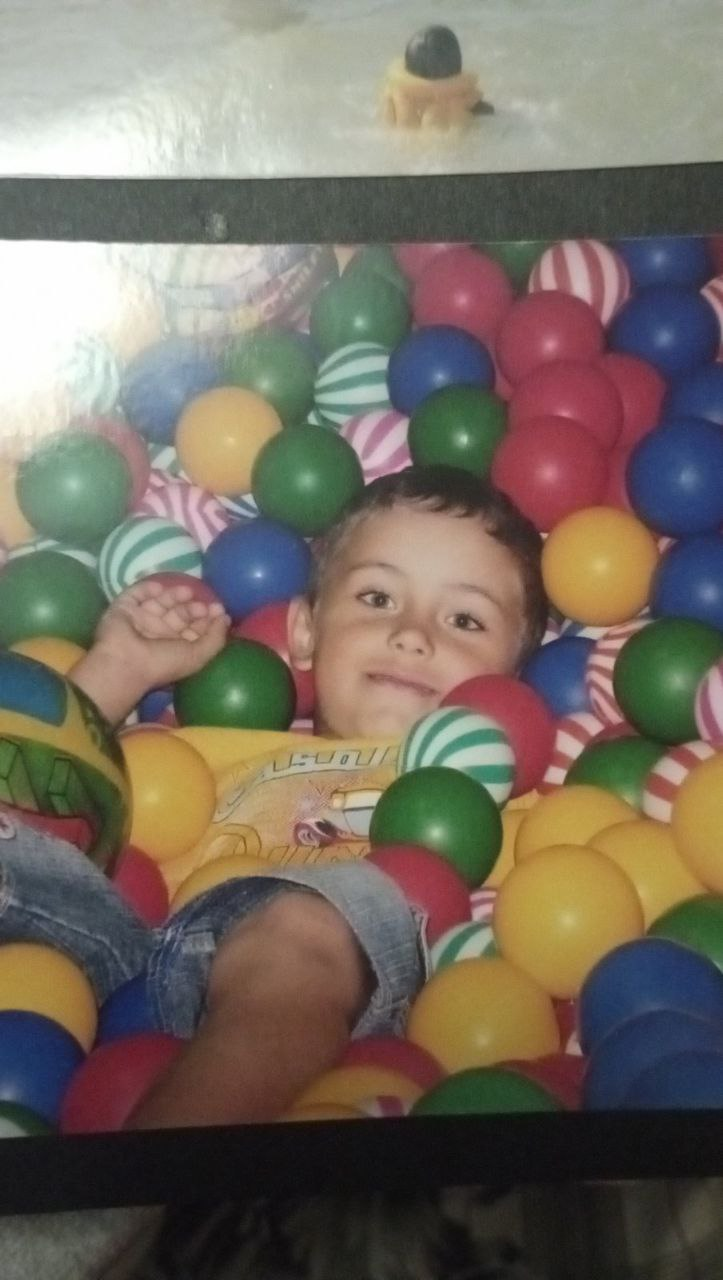
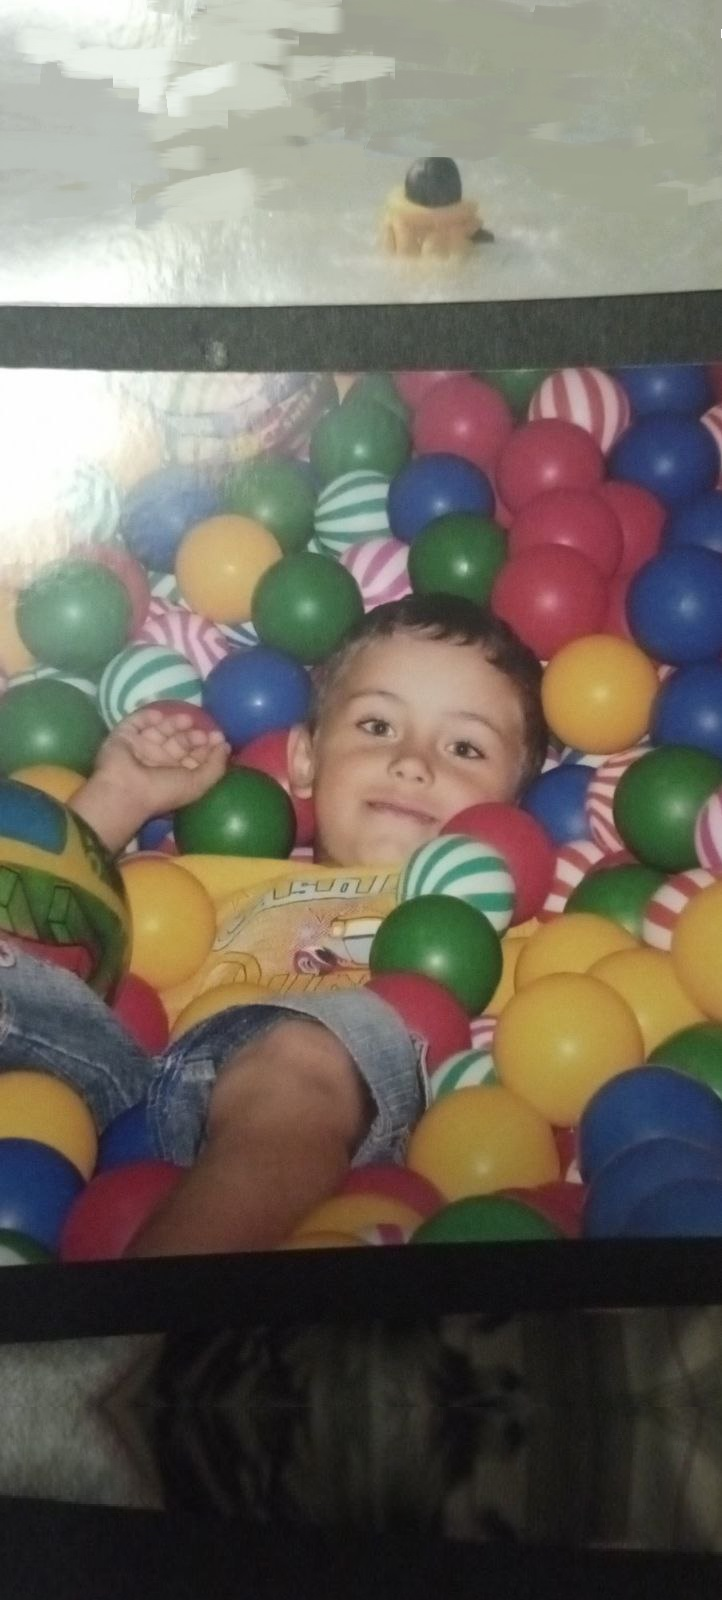
last fix

diff --git a/index.html b/index.html
@@ -77,12 +77,34 @@
         </div>
         <div class="item left">
           <div class="text">
+            <h2>ТВОРЧЕСТВО</h2>
+            <div></div>
+            <p>
+              Ты всегда удивлял нас тем, как много мог и можешь в себе сочетать. Рисование, фотография, гитара. И ты
+              действительно этим живёшь, а эти вещи медленно, но верно, начинают ассоциироваться у нас с тобой.
+            </p>
+          </div>
+        </div>
+        <div class="item">
+          <div class="text">
             <h2>ШКОЛЬНЫЕ ГОДЫ</h2>
             <div></div>
             <p>
               Место где-то ты рос, делал ошибки, узнавал свои интересы, встречал судьбаносных людей.
               Место где можно было быть сорванцом, место где главной заботой была несделанная домашняя работа.
               Были свои счастливые и грустные моменты, которые сделали тебя тем, кто ты есть сейчас.
+            </p>
+          </div>
+        </div>
+        <div class="item left">
+          <div class="text">
+            <h2>ДРУЖБА</h2>
+            <div></div>
+            <p>
+              Твою дорогу в дружбе полностью знаешь лишь ты. Но как же счастливы окружающие люди, что ты появился в их
+              жизни. Это скажет, наверное, каждый, возможно за малым исключением, что есть везде. Ты чудесный друг,
+              который восхищает и мотивирует своими качествами, с которым легко и безумно весело, друг, который всегда
+              поможет и придёт, если это будет необходимо.
             </p>
           </div>
         </div>
@@ -127,14 +149,14 @@
   <script>
     const emoticons = ["🐶", "🐱", "🤣", "🤓", "🥳", "🤑", "👶", "🐧", "🦝", "🙉", "😊", "👽", "👨🎨", "🧸", "💻", "📚", "🤼♂", "⚽", "🍺", "🍳", "🌺", "🔥", "🌊", "🦀", "🐥", "💃", "🤪", "😇", "😂", "😜", "😎", "🐥", "🦖", "🐮", "💫", "🦚", "🐼"];
 
-    function createMessageHTML(message) {
+    function createMessageHTML(message, index) {
       const container = document.createElement('div');
       container.className = 'message';
       const iconContainer = document.createElement('div');
       iconContainer.className = 'icon_part';
       const icon = document.createElement('div');
       icon.className = 'icon';
-      icon.innerHTML = emoticons[Math.round(Math.random() * (emoticons.length - 1))]
+      icon.innerHTML = emoticons[index % emoticons.length]
       console.log(icon.innerHTML)
       iconContainer.appendChild(icon);
       const textContainer = document.createElement('div');
@@ -155,8 +177,8 @@
 
     function appendMessagesToContainer(messages) {
       const container = document.querySelector('.messages_container');
-      messages.forEach((message) => {
-        const messageHTML = createMessageHTML(message);
+      messages.forEach((message, index) => {
+        const messageHTML = createMessageHTML(message, index);
         container.appendChild(messageHTML);
       });
     }

diff --git a/messages.js b/messages.js
@@ -93,5 +93,20 @@ const messages = [
     "time": "17.01.2024 20:53:18",
     "name": "Женьдос",
     "message": "Честно, пока мы разрабатывали этот сайт, я смотрел на твои фото и мне пришла мысль, что ты очень изменился. Изменился только в хорошем смысле, я очень счастлив, что у тебя всё хорошо и ты каждый день меняешься и становишься тем, кем ты хочешь быть. Ты очень крутой друг, желаю тебе крепкого здоровья, больших побед и море счастья тебе и твоей семье. С праздником, юху🤸♂🎉🎊🎉🎊🎉🎊🎉🎊🎉🎊🎊🎉🎉🎊🎉🎊🎉🎊🎊🎉🎉"
+  },
+  {
+    "time": "18.01.2024 15:16:19",
+    "name": "Лёха Бусень",
+    "message": "С днем рождения, желаю побольше сил, здоровья, успехов в твоих начинаниях и конечно много денег!Всего самого тебе наилучшего☺🤗🤪"
+  },
+  {
+    "time": "19.01.2024 0:08:18",
+    "name": "Человек который тебя бесконечно любит (Максим) и человек который придумал подписать тебя Кудряш)",
+    "message": "Дорогой друг, хочу в эту чудесную зимнюю пору поздравить тебя с днём рождения!!!🎉🎉🎉 Желаю тебе оставаться таким же удивительно творческим, добродушным, спортивным!, и жизни радостным, таким, которым я тебя знаю. Я благодарен причинно-следственным связям которые подружили меня с тобой!❤💪🤩 Ты невообразительный человек и ещё лучше друг! 💫 Спасибо что ты у меня есть🤗 С ДНЁМ РОЖДЕНИЯ 🥳🥳🥳🔥"
+  },
+  {
+    "time": "19.01.2024 15:28:57",
+    "name": "Вика Скипальская)",
+    "message": "Никита,  я хочу поздравить тебя с твоим днем рождения и пожелать тебе, чтобы ты не переставал мечтать и воплощать свои идеи в жизнь. Пусть у тебя всегда будет вдохновение и мотивация для создания самых удивительных проектов в мире💫"
   }
 ]

diff --git a/css/style.css b/css/style.css
@@ -187,11 +187,11 @@ canvas {
 }
 
 .tree .item {
+  height: 240px;
   display: flex;
   padding: 60px;
   align-items: center;
   justify-content: right;
-  height: 500px;
 }
 
 .tree .left {
@@ -204,7 +204,7 @@ canvas {
   border-radius: 16px;
   border: 5px solid #14141c;
   z-index: 99;
-  width: 25vw;
+  width: 30vw;
   transition-duration: .2s;
   transition-timing-function: ease-in-out;
 }
@@ -251,15 +251,17 @@ canvas {
 .tree .image {}
 
 .tree .image_1 {
-  background: url("../img/tree/msg1854385734-164777.jpg");
-  background-position: 42% 40%;
+  background: url("../img/tree/Untitled.jpg");
+  background-size: cover;
+  background-position: 55%;
   grid-row: 1 / 9;
   grid-column: 1 / 6;
 }
 
 .tree .image_2 {
-  background: url("../img/tree/msg1854385734-164648.jpg");
+  background: url("../img/tree/Untitled1.jpg");
   background-size: cover;
+  background-position: 75%;
   grid-row: 1 / 5;
   grid-column: 6 / 13;
 }
